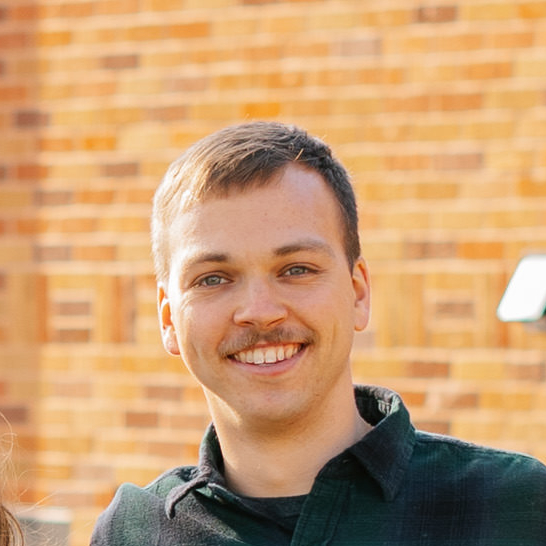
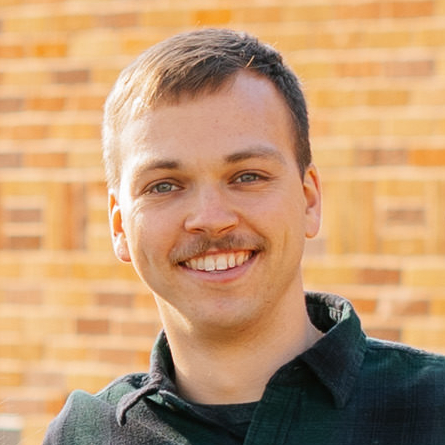
added roles

diff --git a/content/roles/developer.md b/content/roles/developer.md
@@ -1,0 +1,10 @@
+---
+title: "developer"
+company_name: "Technical Consultant"
+company_logo: "/images/developer.jpg"
+company_url: "joshm21.github.io"
+job_title: "Developer"
+job_summary: "Develop custom full-stack applications and internal automation tools to streamline business workflows and solve complex technical challenges."
+role_domain: "Development"
+weight: 1
+---

diff --git a/content/roles/dordt-university.md b/content/roles/dordt-university.md
@@ -1,0 +1,10 @@
+---
+title: "Dordt"
+company_name: "Dordt University - Engineering Faculty"
+company_logo: "/images/dordt.webp"
+company_url: "https://www.dordt.edu/"
+job_title: "Student Researcher"
+job_summary: "Conducted experimental research on fluidized bed biomass gasification to optimize the conversion of organic waste into sustainable energy sources."
+role_domain: "Engineering"
+weight: 4
+---

diff --git a/content/roles/groschopp.md b/content/roles/groschopp.md
@@ -1,0 +1,10 @@
+---
+title: "Groschopp"
+company_name: "Groschopp"
+company_logo: "/images/groschopp.png"
+company_url: "https://www.groschopp.com/"
+job_title: "Mechanical Engineer"
+job_summary: "Directed research and performance testing for industrial gearbox systems to ensure high reliability and technical compliance for motor applications."
+role_domain: "Engineering"
+weight: 2
+---

diff --git a/content/roles/haven.md b/content/roles/haven.md
@@ -1,0 +1,10 @@
+---
+title: "The Harbor"
+company_name: "The Harbor"
+company_logo: "/images/haven.png"
+company_url: ""
+job_title: "Humanitarian Project Co-leader"
+job_summary: "Co-founded and directed a community help center for displaced Ukrainians."
+role_domain: "Leadership"
+weight: 1
+---

diff --git a/content/roles/iowa-state.md b/content/roles/iowa-state.md
@@ -1,0 +1,10 @@
+---
+title: "Iowa State University"
+company_name: "Iowa State University"
+company_logo: "/images/iowa-state.png"
+company_url: "http://iastate.edu/"
+job_title: "Peer Mentor Coordinator"
+job_summary: "Directed mentorship programs focused on leadership development, character growth, and academic excellence for university students."
+role_domain: "Leadership"
+weight: 2
+---

diff --git a/content/roles/jfsco.md b/content/roles/jfsco.md
@@ -1,0 +1,10 @@
+---
+title: ""
+company_name: "JFSCO"
+company_logo: "/images/jfsco.png"
+company_url: "https://www.linkedin.com/company/jfsco-engineering"
+job_title: "Civil Engineer"
+job_summary: "Engineered technical solutions for rail transload facilities through precise calculations, automated design workflows, and comprehensive site drafting."
+role_domain: "Engineering"
+weight: 3
+---

diff --git a/content/roles/lozier.md b/content/roles/lozier.md
@@ -1,0 +1,10 @@
+---
+title: "Lozier"
+company_name: "Lozier "
+company_logo: "/images/lozier.jpg"
+company_url: "https://www.lozier.com/"
+job_title: "Manufacturing Engineer"
+job_summary: "Optimized production environments through robotics integration, machine and fixture design, and process improvements to enhance both safety and efficiency."
+role_domain: "Engineering"
+weight: 1
+---

diff --git a/content/roles/tutor.md b/content/roles/tutor.md
@@ -1,0 +1,10 @@
+---
+title: "Tutor"
+company_name: "Tutoring Consultant"
+company_logo: "/images/tutor.jpg"
+company_url: ""
+job_title: "STEM Tutor"
+job_summary: "Empower high school and university students to master advanced mathematics and science through one-to-one and small-group tutoring."
+role_domain: "Leadership"
+weight: 3
+---